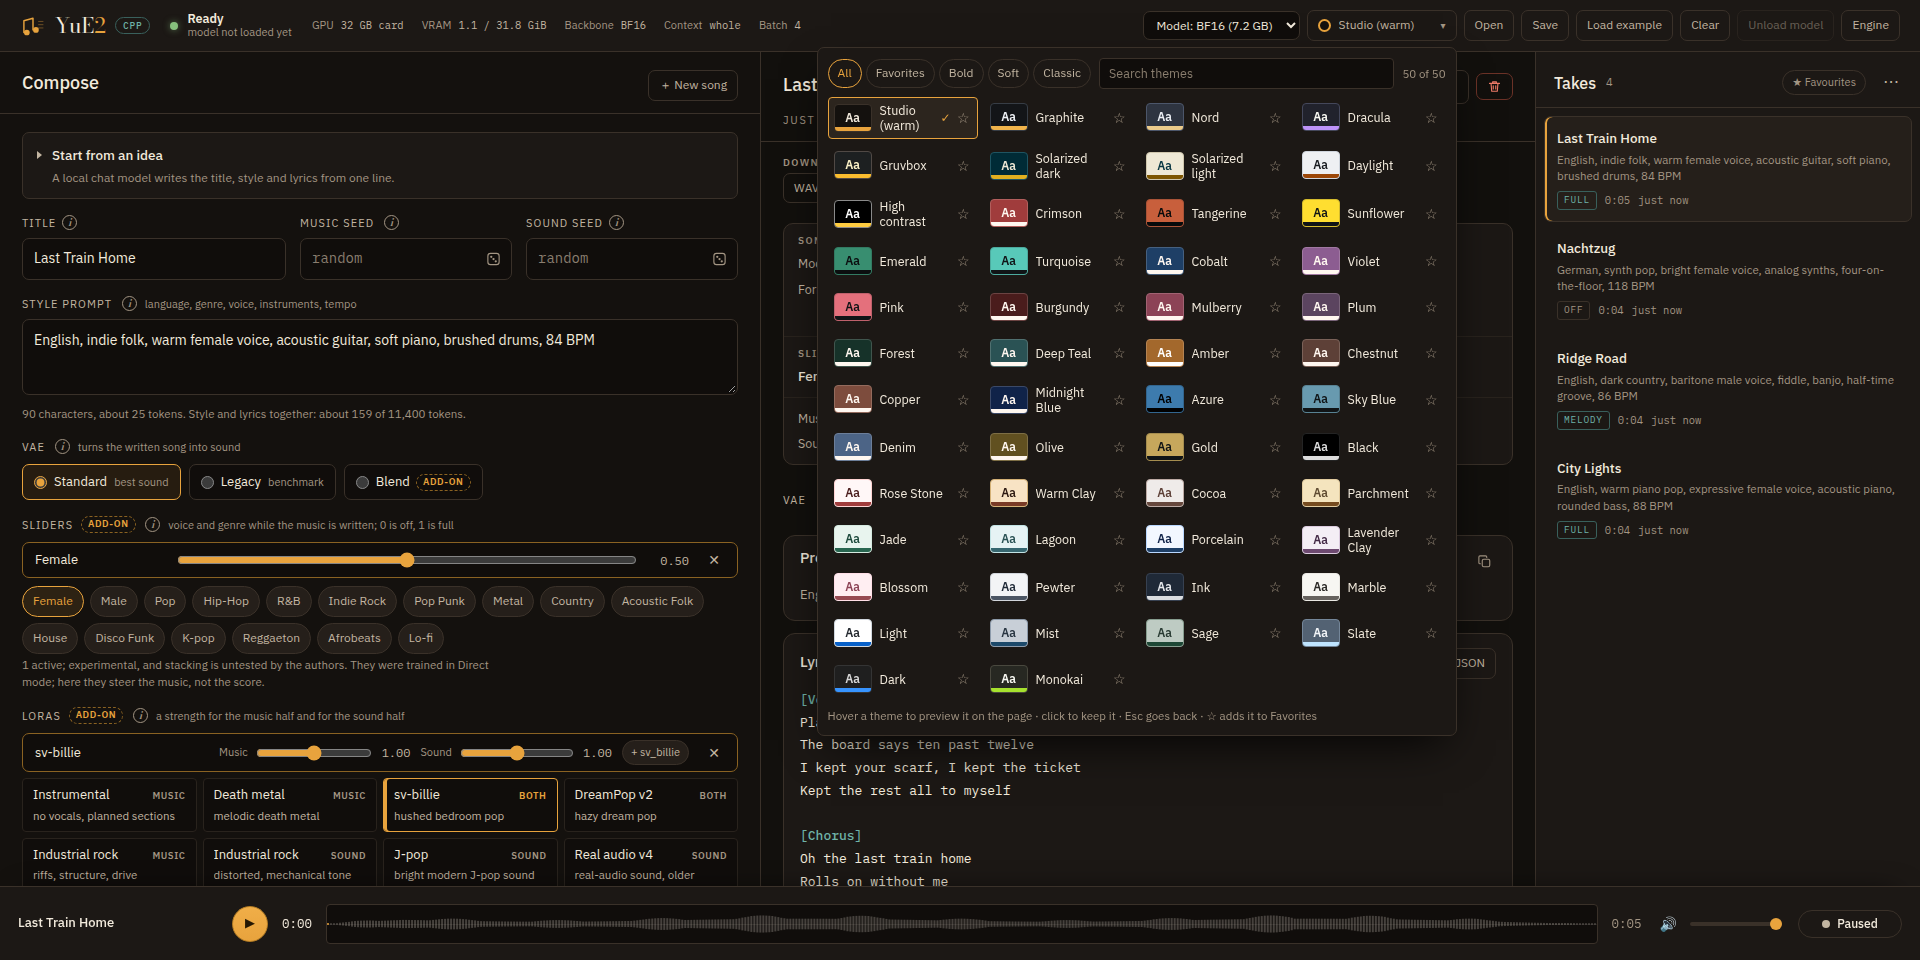
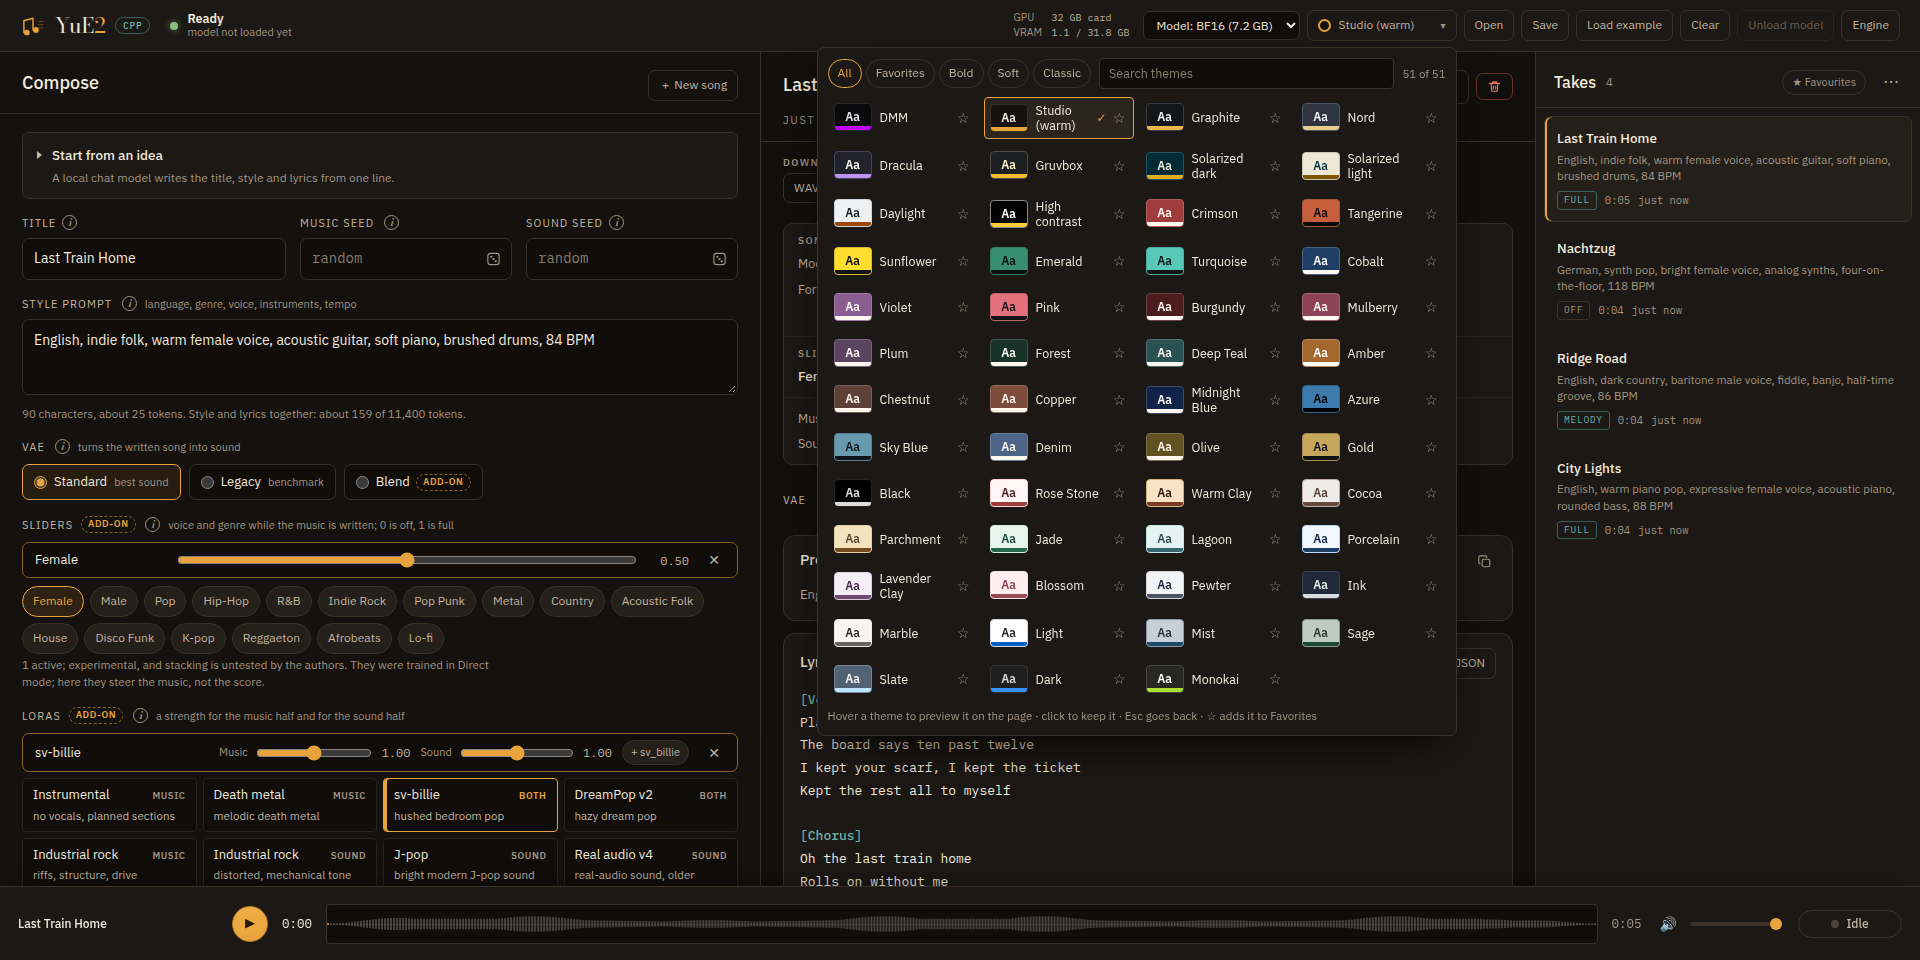
Release kit v12

diff --git a/CHANGELOG.md b/CHANGELOG.md
@@ -5,7 +5,7 @@ Kits v1 to v4 carry the same app: upstream yue2.cpp `f17d526` + 22 patches, tree
 
 ## v12 (2026-09-28)
 
-52 patches, tree `1368479d4b54bf53cd21a63d435333d676f32b86`. From a friend's copy of the page, brought onto v11.
+58 patches, tree `41c64b6e1af2b3c7f135dea18a00517907b6c16b`. A friend's page changes brought onto v11, and a tidier page.
 
 - **Downloads named after the song**: `Last Train Home.wav` instead of `20260927-183418-last-train-home.wav`,
   for WAV, MP3 and FLAC, named by the server and the page alike (the characters Windows refuses in a file
@@ -13,16 +13,23 @@ Kits v1 to v4 carry the same app: upstream yue2.cpp `f17d526` + 22 patches, tree
   names** to go back to the library name.
 - **The DMM theme**: zinc and electric purple with cyan and neon green, Michroma headings and Space Grotesk
   text, and a larger play button with drawn play and pause icons. It is one of the themes in the picker;
-  Studio stays the default. Its two fonts are also in the Engine page's Fonts card.
+  Studio stays the default. Its two fonts are also in the Appearance card's font menus.
 - **The play button says Play or Pause** to screen readers as it changes.
-- **A cleaner bottom bar** in the compose column: **Takes** (was Versions) and two slim buttons of one size,
-  with a note only when it matters (a run queued, the server away, codes loaded).
+- **A cleaner bottom bar** in the compose column: **Takes** (was Versions) beside two slim buttons of one
+  size, with a note only when it matters (a run queued, the server away, codes loaded).
 - **Long song names wrap** in the player (two lines, a size smaller) instead of being cut off.
 - Headings get the room a tall font needs (DMM's were clipped); DMM's hover highlights are purple.
 - **An Appearance card** on the Engine page (was Fonts): the theme, plus options for any theme (hover
   highlights in the theme's colour, a soft accent glow around cards, Rounded, Softer or Square corners, a
   calmer page without animations) and the three fonts. Kept per browser; **Default look** resets them.
-- **About**: the layout's inspiration, YuE2_WebUI, has its own section after the engine's.
+- **The top bar**: the music note in the top-left corner opens this kit's GitHub page. The GPU readout is two
+  small lines (the GPU, its memory in GB) right beside the Model menu, so it stays visible on a small monitor;
+  the rest is in its tip.
+- **Tidier text**: sizes in GB (not GiB), tips wide enough that their lines stay whole, a shorter Model tip,
+  and more room between a number and its arrows in the compose boxes.
+- **The Engine page**: the Writer and Appearance cards each have a row of their own.
+- **About**: two columns, YuE2 on the left and the engine, the layout and ggml on the right. The layout's
+  inspiration, YuE2_WebUI, has its own section, and the credit links this kit's GitHub page.
 - The real-server test now checks the download names too; its screenshots are taken only on request.
 
 ## v11 (2026-09-27)

diff --git a/app/tools/kit/CHANGELOG.md b/app/tools/kit/CHANGELOG.md
@@ -5,7 +5,7 @@ Kits v1 to v4 carry the same app: upstream yue2.cpp `f17d526` + 22 patches, tree
 
 ## v12 (2026-09-28)
 
-52 patches, tree `1368479d4b54bf53cd21a63d435333d676f32b86`. From a friend's copy of the page, brought onto v11.
+58 patches, tree `41c64b6e1af2b3c7f135dea18a00517907b6c16b`. A friend's page changes brought onto v11, and a tidier page.
 
 - **Downloads named after the song**: `Last Train Home.wav` instead of `20260927-183418-last-train-home.wav`,
   for WAV, MP3 and FLAC, named by the server and the page alike (the characters Windows refuses in a file
@@ -13,16 +13,23 @@ Kits v1 to v4 carry the same app: upstream yue2.cpp `f17d526` + 22 patches, tree
   names** to go back to the library name.
 - **The DMM theme**: zinc and electric purple with cyan and neon green, Michroma headings and Space Grotesk
   text, and a larger play button with drawn play and pause icons. It is one of the themes in the picker;
-  Studio stays the default. Its two fonts are also in the Engine page's Fonts card.
+  Studio stays the default. Its two fonts are also in the Appearance card's font menus.
 - **The play button says Play or Pause** to screen readers as it changes.
-- **A cleaner bottom bar** in the compose column: **Takes** (was Versions) and two slim buttons of one size,
-  with a note only when it matters (a run queued, the server away, codes loaded).
+- **A cleaner bottom bar** in the compose column: **Takes** (was Versions) beside two slim buttons of one
+  size, with a note only when it matters (a run queued, the server away, codes loaded).
 - **Long song names wrap** in the player (two lines, a size smaller) instead of being cut off.
 - Headings get the room a tall font needs (DMM's were clipped); DMM's hover highlights are purple.
 - **An Appearance card** on the Engine page (was Fonts): the theme, plus options for any theme (hover
   highlights in the theme's colour, a soft accent glow around cards, Rounded, Softer or Square corners, a
   calmer page without animations) and the three fonts. Kept per browser; **Default look** resets them.
-- **About**: the layout's inspiration, YuE2_WebUI, has its own section after the engine's.
+- **The top bar**: the music note in the top-left corner opens this kit's GitHub page. The GPU readout is two
+  small lines (the GPU, its memory in GB) right beside the Model menu, so it stays visible on a small monitor;
+  the rest is in its tip.
+- **Tidier text**: sizes in GB (not GiB), tips wide enough that their lines stay whole, a shorter Model tip,
+  and more room between a number and its arrows in the compose boxes.
+- **The Engine page**: the Writer and Appearance cards each have a row of their own.
+- **About**: two columns, YuE2 on the left and the engine, the layout and ggml on the right. The layout's
+  inspiration, YuE2_WebUI, has its own section, and the credit links this kit's GitHub page.
 - The real-server test now checks the download names too; its screenshots are taken only on request.
 
 ## v11 (2026-09-27)

diff --git a/INSTALL.md b/INSTALL.md
@@ -546,19 +546,25 @@ Compare with the kit's `docs/screenshots/`:
 - `song-page-narrow.png`: the same in a narrower window (the details card folds);
 - `engine-page.png`: the Engine page with its band and dotted backdrop;
 - `engine-tiles.png`: VAE, LoRA and Sliders tiles with links and (i);
-- `engine-about.png`: the end of the Engine page, with the About card;
+- `engine-about.png`: the end of the Engine page, with the About card (YuE2 on the left, the engine, the
+  layout and ggml on the right);
 - `theme-picker.png`: the themes.
 
 The screenshots were taken against a stand-in server that had his real LoRAs, VAEs and sliders; the
 songs and the hardware readout are examples. The layout, text, colours and controls are what I should see.
 
-- The default theme is **Studio (warm)**, a dark warm palette with amber accents. The theme menu in
-  the top bar changes it per browser (and the browser remembers).
+- The top bar, left to right: the music note (opens this kit's GitHub page), the "YuE2" logo (the model's
+  repo), the small "cpp" tag (the engine's repo), the server status, and on the right a two-line GPU readout
+  (the GPU, its memory in GB) right beside the Model menu, then the theme menu and the buttons.
+- The default theme is **Studio (warm)**, a dark warm palette with amber accents, one of 51 (DMM is the
+  purple one with its own fonts). The theme menu in the top bar changes it per browser (and the browser
+  remembers).
+- Downloads are named after the song (`Last Train Home.wav`); the Takes list's ⋯ menu puts the date back.
 - Text and headings are in IBM Plex Sans (headings at medium weight), numbers in IBM Plex Mono; only the
   "YuE2" logo is in the Bodoni Moda serif. The Engine page's **Appearance** card changes them per browser.
-- The page loads its fonts (Google Fonts: Bodoni Moda, IBM Plex Sans, IBM Plex Mono) and the
-  score renderer (abcjs from cdnjs) from the internet, beside the page rather than before it: on a first
-  visit the text can show in a plain font for a moment, then switch. Without internet it still works but
+- The page loads its fonts (Google Fonts: Bodoni Moda, IBM Plex Sans, IBM Plex Mono, and Michroma and
+  Space Grotesk for the DMM theme) and the score renderer (abcjs from cdnjs) from the internet, beside the
+  page rather than before it: on a first visit the text can show in a plain font for a moment, then switch. Without internet it still works but
   keeps plain fonts, and scores show as text.
 - After the app is updated, press Ctrl+Shift+R so the browser reloads the page.
 

diff --git a/app/tools/kit/INSTALL-PROMPT.md b/app/tools/kit/INSTALL-PROMPT.md
@@ -546,19 +546,25 @@ Compare with the kit's `docs/screenshots/`:
 - `song-page-narrow.png`: the same in a narrower window (the details card folds);
 - `engine-page.png`: the Engine page with its band and dotted backdrop;
 - `engine-tiles.png`: VAE, LoRA and Sliders tiles with links and (i);
-- `engine-about.png`: the end of the Engine page, with the About card;
+- `engine-about.png`: the end of the Engine page, with the About card (YuE2 on the left, the engine, the
+  layout and ggml on the right);
 - `theme-picker.png`: the themes.
 
 The screenshots were taken against a stand-in server that had his real LoRAs, VAEs and sliders; the
 songs and the hardware readout are examples. The layout, text, colours and controls are what I should see.
 
-- The default theme is **Studio (warm)**, a dark warm palette with amber accents. The theme menu in
-  the top bar changes it per browser (and the browser remembers).
+- The top bar, left to right: the music note (opens this kit's GitHub page), the "YuE2" logo (the model's
+  repo), the small "cpp" tag (the engine's repo), the server status, and on the right a two-line GPU readout
+  (the GPU, its memory in GB) right beside the Model menu, then the theme menu and the buttons.
+- The default theme is **Studio (warm)**, a dark warm palette with amber accents, one of 51 (DMM is the
+  purple one with its own fonts). The theme menu in the top bar changes it per browser (and the browser
+  remembers).
+- Downloads are named after the song (`Last Train Home.wav`); the Takes list's ⋯ menu puts the date back.
 - Text and headings are in IBM Plex Sans (headings at medium weight), numbers in IBM Plex Mono; only the
   "YuE2" logo is in the Bodoni Moda serif. The Engine page's **Appearance** card changes them per browser.
-- The page loads its fonts (Google Fonts: Bodoni Moda, IBM Plex Sans, IBM Plex Mono) and the
-  score renderer (abcjs from cdnjs) from the internet, beside the page rather than before it: on a first
-  visit the text can show in a plain font for a moment, then switch. Without internet it still works but
+- The page loads its fonts (Google Fonts: Bodoni Moda, IBM Plex Sans, IBM Plex Mono, and Michroma and
+  Space Grotesk for the DMM theme) and the score renderer (abcjs from cdnjs) from the internet, beside the
+  page rather than before it: on a first visit the text can show in a plain font for a moment, then switch. Without internet it still works but
   keeps plain fonts, and scores show as text.
 - After the app is updated, press Ctrl+Shift+R so the browser reloads the page.
 
